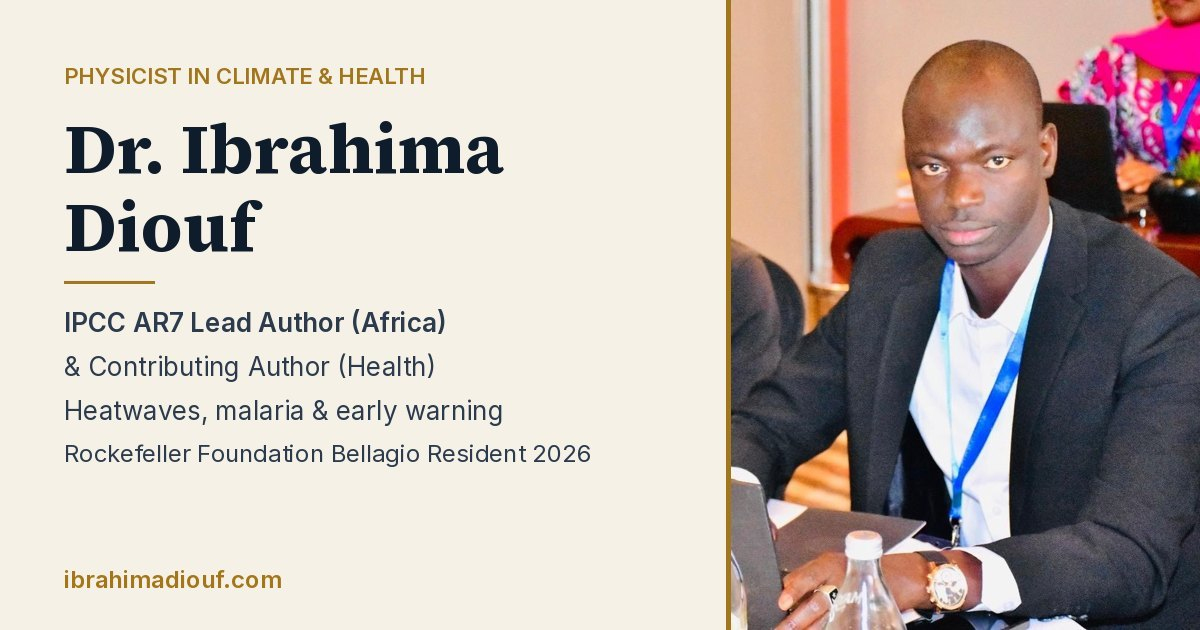
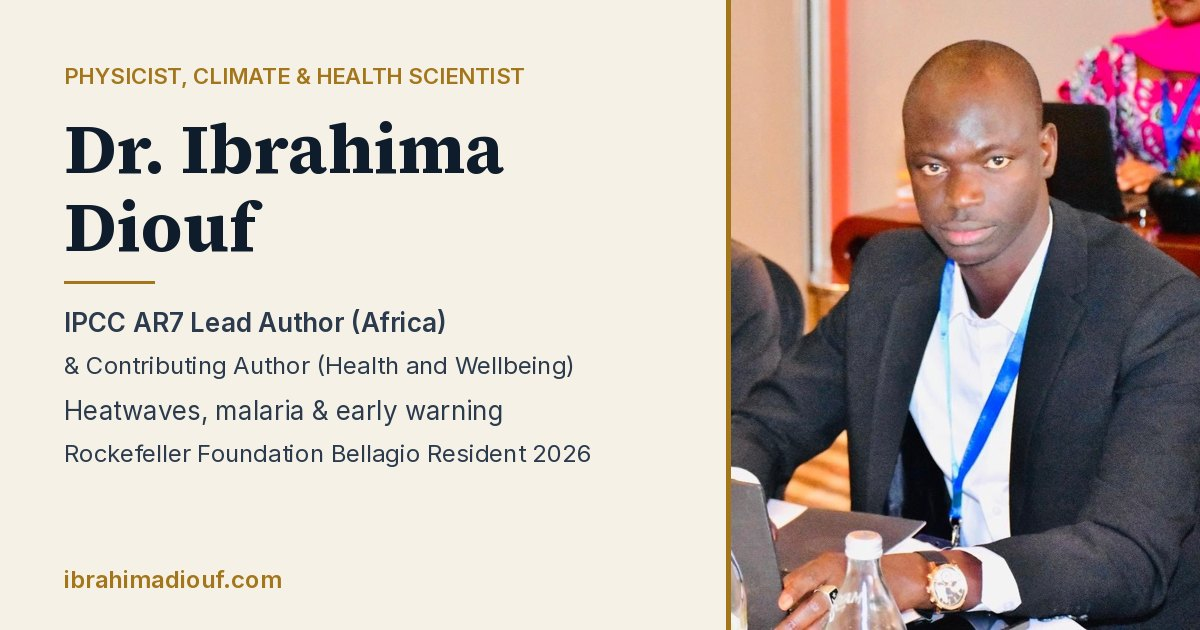
Add files via upload

Changed region(s): [[0.1542, 0.0905, 0.4317, 0.1508], [0.0308, 0.573, 0.4933, 0.6032]]

diff --git a/index.html b/index.html
@@ -3,10 +3,10 @@
 <head>
 <meta charset="utf-8" />
 <meta name="viewport" content="width=device-width, initial-scale=1" />
-<title>Dr. Ibrahima DIOUF — Physicist in Climate & Health</title>
-<meta name="description" content="Dr. Ibrahima Diouf — physicist in climate &amp; health, IPCC AR7 Lead Author (Africa) and Contributing Author (Health). Heatwaves, malaria and early warning systems for Africa. Rockefeller Foundation Bellagio Resident 2026." />
-<meta property="og:title" content="Dr. Ibrahima DIOUF — Physicist in Climate &amp; Health" />
-<meta property="og:description" content="IPCC AR7 Lead Author (Africa) &amp; Contributing Author (Health) | Heatwaves, Malaria &amp; Early Warning Systems for Africa | Rockefeller Foundation Bellagio Resident 2026" />
+<title>Dr. Ibrahima DIOUF — Physicist, Climate & Health Scientist</title>
+<meta name="description" content="Dr. Ibrahima Diouf — physicist, climate &amp; health scientist, IPCC AR7 Lead Author (Africa) and Contributing Author (Health and Wellbeing). Heatwaves, malaria and early warning systems for Africa. Rockefeller Foundation Bellagio Resident 2026." />
+<meta property="og:title" content="Dr. Ibrahima DIOUF — Physicist, Climate &amp; Health Scientist" />
+<meta property="og:description" content="IPCC AR7 Lead Author (Africa) &amp; Contributing Author (Health and Wellbeing) | Heatwaves, Malaria &amp; Early Warning Systems for Africa | Rockefeller Foundation Bellagio Resident 2026" />
 <meta property="og:type" content="profile" />
 <meta property="og:url" content="https://ibrahimadiouf.com/" />
 <meta property="og:image" content="https://ibrahimadiouf.com/og-image.jpg" />
@@ -14,7 +14,7 @@
 <meta property="og:image:height" content="630" />
 <meta property="og:image:alt" content="Dr. Ibrahima Diouf - Climate &amp; Health Scientist, IPCC AR7 Lead Author" />
 <meta name="twitter:card" content="summary_large_image" />
-<meta name="twitter:title" content="Dr. Ibrahima DIOUF - Physicist in Climate &amp; Health" />
+<meta name="twitter:title" content="Dr. Ibrahima DIOUF - Physicist, Climate &amp; Health Scientist" />
 <meta name="twitter:image" content="https://ibrahimadiouf.com/og-image.jpg" />
 <link rel="canonical" href="https://ibrahimadiouf.com/" />
 <link rel="icon" type="image/png" href="favicon.png" />
@@ -25,7 +25,7 @@
   "@type": "Person",
   "name": "Ibrahima Diouf",
   "honorificPrefix": "Dr.",
-  "jobTitle": "Physicist in Climate & Health; IPCC AR7 Lead Author (WGII, Chapter 7 Africa) and Contributing Author (Health)",
+  "jobTitle": "Physicist, Climate & Health Scientist; IPCC AR7 Lead Author (WGII, Chapter 7 Africa) and Contributing Author (Health and Wellbeing)",
   "url": "https://ibrahimadiouf.com/",
   "image": "https://ibrahimadiouf.com/portrait.jpg",
   "affiliation": [
@@ -506,7 +506,7 @@ footer.site{border-top:1px solid var(--rule);padding:40px 0;background:var(--pap
         <img src="avatar.jpg" width="46" height="46" alt="Dr. Ibrahima Diouf">
         <span>
           <span class="nm">Dr. Ibrahima Diouf</span><br>
-          <span class="rl" data-i18n="hdr.role">Physicien, climat &amp; santé</span>
+          <span class="rl" data-i18n="hdr.role">Physicien, scientifique climat &amp; santé</span>
         </span>
       </a>
       <nav class="main" id="nav">
@@ -1502,7 +1502,7 @@ footer.site{border-top:1px solid var(--rule);padding:40px 0;background:var(--pap
 <footer class="site">
   <div class="wrap">
     <div class="frow">
-      <div><span class="fname">Dr. Ibrahima Diouf</span> — <span data-i18n="ft.role">Physicien, climat &amp; santé</span></div>
+      <div><span class="fname">Dr. Ibrahima Diouf</span> — <span data-i18n="ft.role">Physicien, scientifique climat &amp; santé</span></div>
       <div>© <span id="yr"></span> · <span data-i18n="ft.rights">Tous droits réservés</span> · <a href="#top" data-i18n="ft.top">Haut de page ↑</a></div>
     </div>
   </div>
@@ -1589,7 +1589,7 @@ applyFilter('all');
 const I18N = {
   fr: {},
   en: {
-    'hdr.role':'Physicist in Climate &amp; Health',
+    'hdr.role':'Physicist, Climate &amp; Health Scientist',
     'nav.1':'Profile','nav.2':'Research','nav.3':'Tools','nav.4':'Impact','nav.5':'Publications','nav.6':'Career','nav.7':'Contact',
     'hero.kicker':'IPCC AR7 Lead Author · Chapter 7 — Africa, WGII',
     'hero.h1':'Turning climate data into <em>public-health decisions</em>.',
@@ -1753,7 +1753,7 @@ const I18N = {
     'g.f6':"Academic life",
     'g.f4':"Bellagio residency",
     'g.more':"See all photos",
-    'ft.role':'Physicist in Climate &amp; Health','ft.rights':'All rights reserved','ft.top':'Back to top ↑'
+    'ft.role':'Physicist, Climate &amp; Health Scientist','ft.rights':'All rights reserved','ft.top':'Back to top ↑'
   }
 };
 document.querySelectorAll('[data-i18n]').forEach(el => { const k = el.getAttribute('data-i18n'); if(I18N.fr[k] === undefined) I18N.fr[k] = el.innerHTML; });
